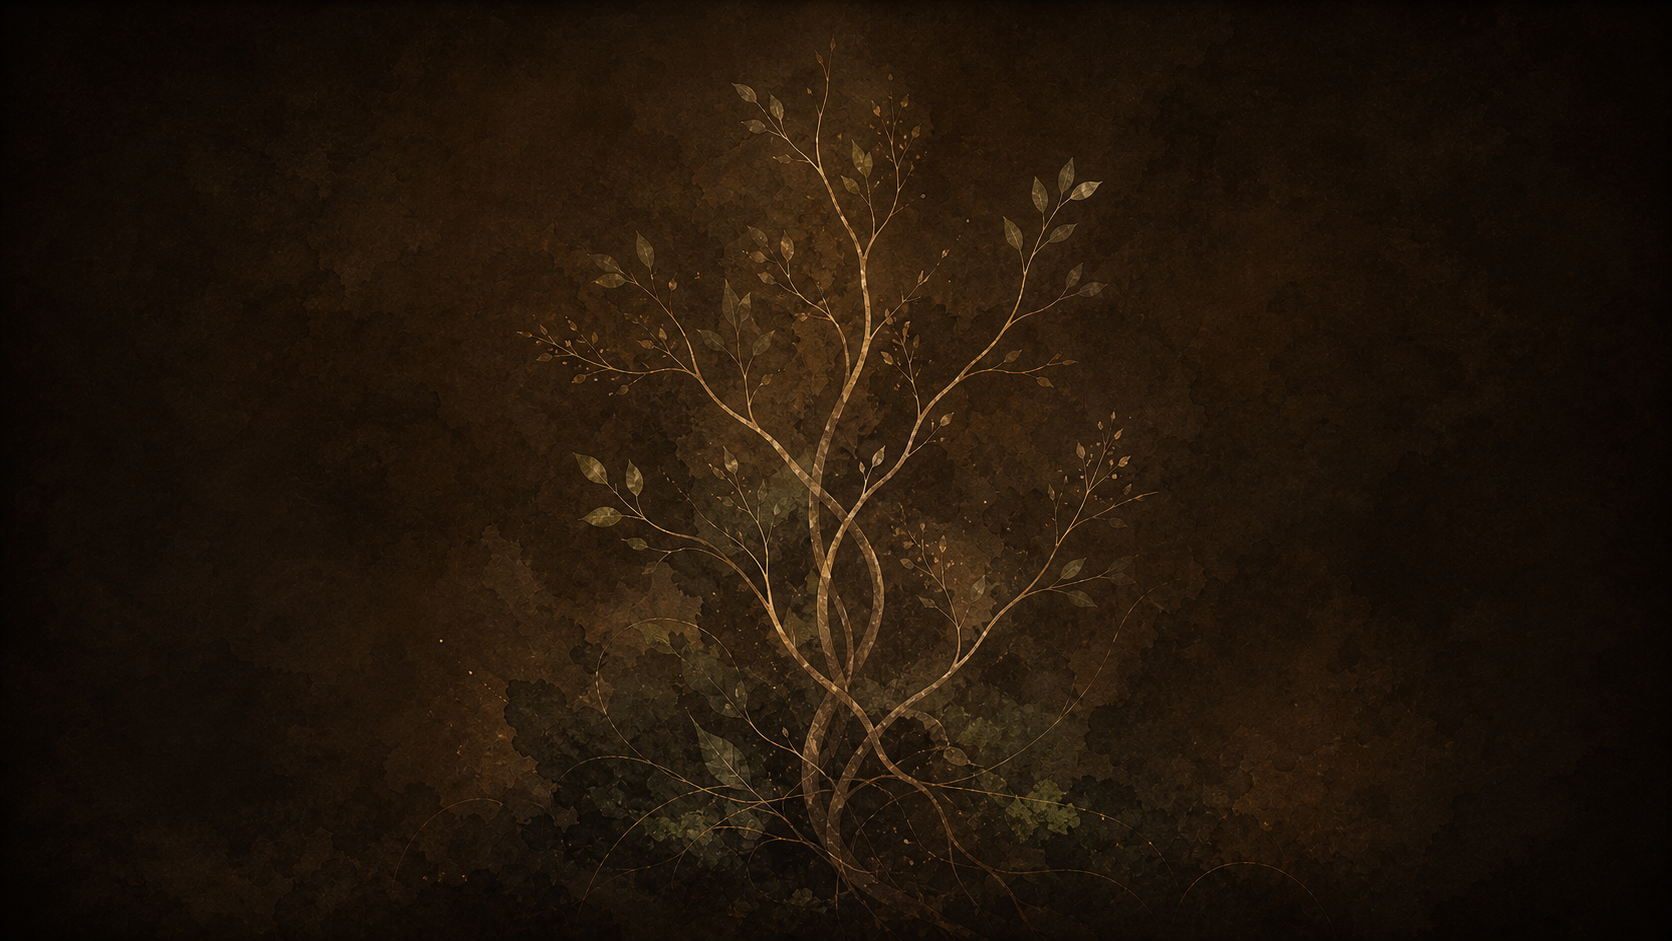
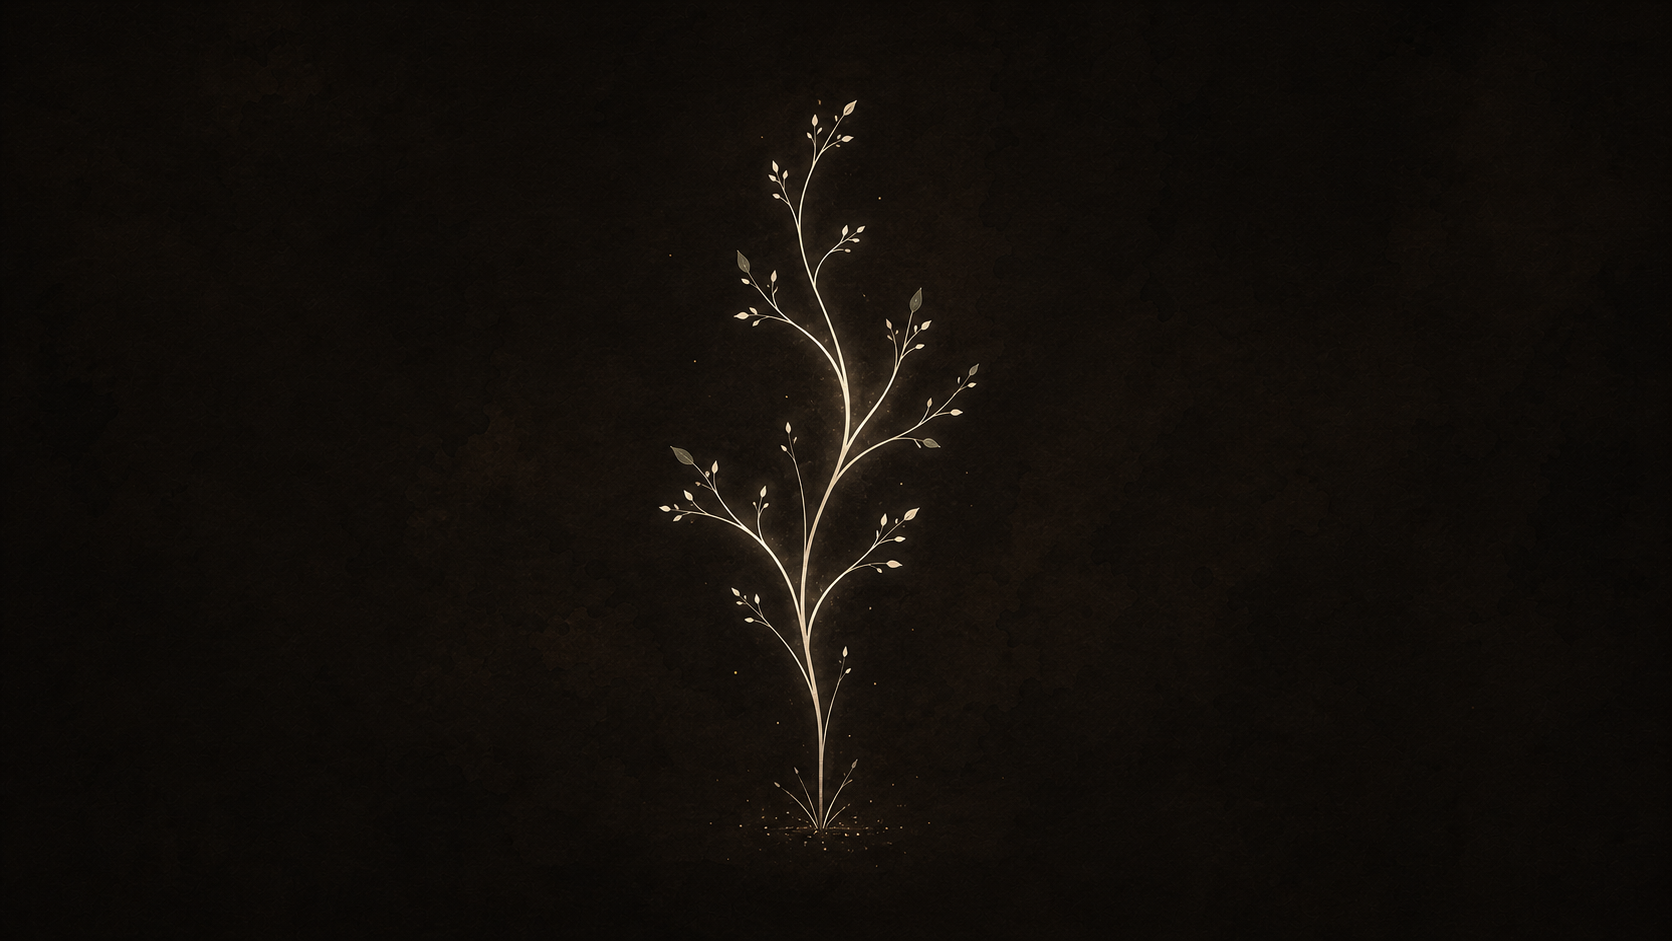
Merge pull request #51 from DerfelTheMighty/codex/ocean-forest-theme-backgrounds
Codex/ocean forest theme backgrounds

Pull request: Codex/ocean forest theme backgrounds
## Summary
- Added generated background artwork for the `Ocean`, `Forest`, and `Maritime` app themes.
- Ocean uses a dark watercolor wash with layered currents and subtle teal/gold linework.
- Forest uses a centered ivory-white abstract tree form with sparse thin branches and very small leaves, tuned for mobile center crops.
- Maritime uses a three-color dune grass beach illustration based on the Maritime theme palette.
- Kept backgrounds theme-specific by applying layout classes only for the selected theme.

## User Experience
- **Ocean** now has a calm dark-blue watercolor background that supports the existing navy/teal palette.
- **Forest** now has a warm dark-brown background with a central ivory-white, highly abstract tree form, so the motif remains visible on smartphone viewports.
- **Maritime** now has a light dune grass coastal background using sea blue, coral sand, and pale warm yellow from the theme.
- All three themes use fixed background image layers plus gradient/vignette overlays so cards, navigation, and text remain readable.
- App bars and drawers are slightly translucent with blur to keep the theme artwork present without competing with the UI.

## Implementation Details
- Updated `MainLayout.razor` to map additional selected themes to layout classes:
  - `AppThemeName.Ocean` -> `pl-ocean-layout`
  - `AppThemeName.Forest` -> `pl-forest-layout`
  - `AppThemeName.Maritime` -> `pl-maritime-layout`
- Updated `app-theme.css` with:
[…]

Changed region(s): [[0.1866, 0.0, 0.8397, 0.9862], [0.1866, 0.678, 0.2177, 0.7396]]

diff --git a/PaceLetics.Web/wwwroot/css/app-theme.css b/PaceLetics.Web/wwwroot/css/app-theme.css
@@ -8,7 +8,8 @@
 .pl-forest-layout,
 .pl-stellar-forge-layout,
 .pl-dark-romance-layout,
-.pl-wildflowers-layout {
+.pl-wildflowers-layout,
+.pl-maritime-layout {
     position: relative;
     isolation: isolate;
     min-height: 100vh;
@@ -32,7 +33,9 @@
 .pl-dark-romance-layout::before,
 .pl-dark-romance-layout::after,
 .pl-wildflowers-layout::before,
-.pl-wildflowers-layout::after {
+.pl-wildflowers-layout::after,
+.pl-maritime-layout::before,
+.pl-maritime-layout::after {
     content: "";
     position: fixed;
     pointer-events: none;
@@ -181,12 +184,38 @@
         linear-gradient(90deg, rgba(255, 247, 217, 0.82), transparent 30%, transparent 70%, rgba(255, 247, 217, 0.82));
 }
 
+.pl-maritime-layout {
+    background:
+        radial-gradient(ellipse at 76% 44%, rgba(92, 191, 210, 0.1), transparent 34%),
+        radial-gradient(ellipse at 34% 70%, rgba(255, 155, 133, 0.08), transparent 38%),
+        linear-gradient(180deg, #EAF7F8 0%, #F3CC7C 54%, #FFFFFF 100%);
+}
+
+.pl-maritime-layout::before {
+    inset: 0;
+    z-index: 0;
+    opacity: 0.54;
+    background:
+        url("../images/theme/maritime-dune-background.png") center center / cover no-repeat;
+    filter: saturate(0.86) contrast(0.92) brightness(1.04);
+}
+
+.pl-maritime-layout::after {
+    inset: 0;
+    z-index: 0;
+    background:
+        radial-gradient(ellipse at 72% 48%, rgba(92, 191, 210, 0.08), transparent 34%),
+        linear-gradient(180deg, rgba(234, 247, 248, 0.42) 0%, rgba(234, 247, 248, 0.58) 44%, rgba(255, 255, 255, 0.78) 100%),
+        linear-gradient(90deg, rgba(234, 247, 248, 0.76), transparent 28%, transparent 68%, rgba(255, 255, 255, 0.66));
+}
+
 .pl-synthwave-layout .mud-main-content,
 .pl-ocean-layout .mud-main-content,
 .pl-forest-layout .mud-main-content,
 .pl-stellar-forge-layout .mud-main-content,
 .pl-dark-romance-layout .mud-main-content,
-.pl-wildflowers-layout .mud-main-content {
+.pl-wildflowers-layout .mud-main-content,
+.pl-maritime-layout .mud-main-content {
     position: relative;
     z-index: 1;
 }
@@ -267,6 +296,19 @@
     z-index: 2;
     background-color: color-mix(in srgb, var(--mud-palette-drawer-background) 96%, transparent) !important;
     border-right: 1px solid rgba(115, 182, 110, 0.16);
+}
+
+.pl-maritime-layout .mud-appbar {
+    z-index: 2;
+    background-color: color-mix(in srgb, var(--mud-palette-appbar-background) 92%, transparent) !important;
+    border-bottom: 1px solid rgba(92, 191, 210, 0.2);
+    backdrop-filter: blur(12px);
+}
+
+.pl-maritime-layout .mud-drawer {
+    z-index: 2;
+    background-color: color-mix(in srgb, var(--mud-palette-drawer-background) 96%, transparent) !important;
+    border-right: 1px solid rgba(255, 155, 133, 0.18);
 }
 
 .pl-pageheader {

diff --git a/PR_REPORT.md b/PR_REPORT.md
@@ -1,30 +1,35 @@
-# PR Report: Add Ocean and Forest Theme Backgrounds
+# PR Report: Add Ocean, Forest, and Maritime Theme Backgrounds
 
 ## Summary
-- Added generated background artwork for the `Ocean` and `Forest` app themes.
+- Added generated background artwork for the `Ocean`, `Forest`, and `Maritime` app themes.
 - Ocean uses a dark watercolor wash with layered currents and subtle teal/gold linework.
-- Forest uses a centered minimalist branching motif inspired by meditative botanical silhouette art, tuned for mobile center crops.
+- Forest uses a centered ivory-white abstract tree form with sparse thin branches and very small leaves, tuned for mobile center crops.
+- Maritime uses a three-color dune grass beach illustration based on the Maritime theme palette.
 - Kept backgrounds theme-specific by applying layout classes only for the selected theme.
 
 ## User Experience
 - **Ocean** now has a calm dark-blue watercolor background that supports the existing navy/teal palette.
-- **Forest** now has a warm dark-brown background with a central organic branch form, so the motif remains visible on smartphone viewports.
-- Both themes use fixed background image layers plus gradient/vignette overlays so cards, navigation, and text remain readable.
+- **Forest** now has a warm dark-brown background with a central ivory-white, highly abstract tree form, so the motif remains visible on smartphone viewports.
+- **Maritime** now has a light dune grass coastal background using sea blue, coral sand, and pale warm yellow from the theme.
+- All three themes use fixed background image layers plus gradient/vignette overlays so cards, navigation, and text remain readable.
 - App bars and drawers are slightly translucent with blur to keep the theme artwork present without competing with the UI.
 
 ## Implementation Details
 - Updated `MainLayout.razor` to map additional selected themes to layout classes:
   - `AppThemeName.Ocean` -> `pl-ocean-layout`
   - `AppThemeName.Forest` -> `pl-forest-layout`
+  - `AppThemeName.Maritime` -> `pl-maritime-layout`
 - Updated `app-theme.css` with:
   - `pl-ocean-layout`
   - `pl-forest-layout`
+  - `pl-maritime-layout`
   - fixed `::before` image layers
   - fixed `::after` gradient and vignette overlays
   - theme-specific app bar and drawer transparency
 - Added generated image assets:
   - `PaceLetics.Web/wwwroot/images/theme/ocean-watercolor-background.png`
   - `PaceLetics.Web/wwwroot/images/theme/forest-prune-background.png`
+  - `PaceLetics.Web/wwwroot/images/theme/maritime-dune-background.png`
 
 ## Compatibility Notes
 - No theme enum values changed.
@@ -41,8 +46,9 @@
 ## PR
 - Branch: `codex/ocean-forest-theme-backgrounds`
 - Base: `main`
-- Suggested title: `Add Ocean and Forest theme backgrounds`
+- Suggested title: `Add Ocean, Forest, and Maritime theme backgrounds`
 - Suggested description:
   - Adds watercolor-inspired Ocean background artwork.
-  - Adds a centered minimalist Forest branch background for better mobile visibility.
+  - Adds a centered abstract white Forest tree background for better mobile visibility.
+  - Adds a three-color Maritime dune grass background based on the theme palette.
   - Uses per-theme layout classes and overlays to keep the UI readable.